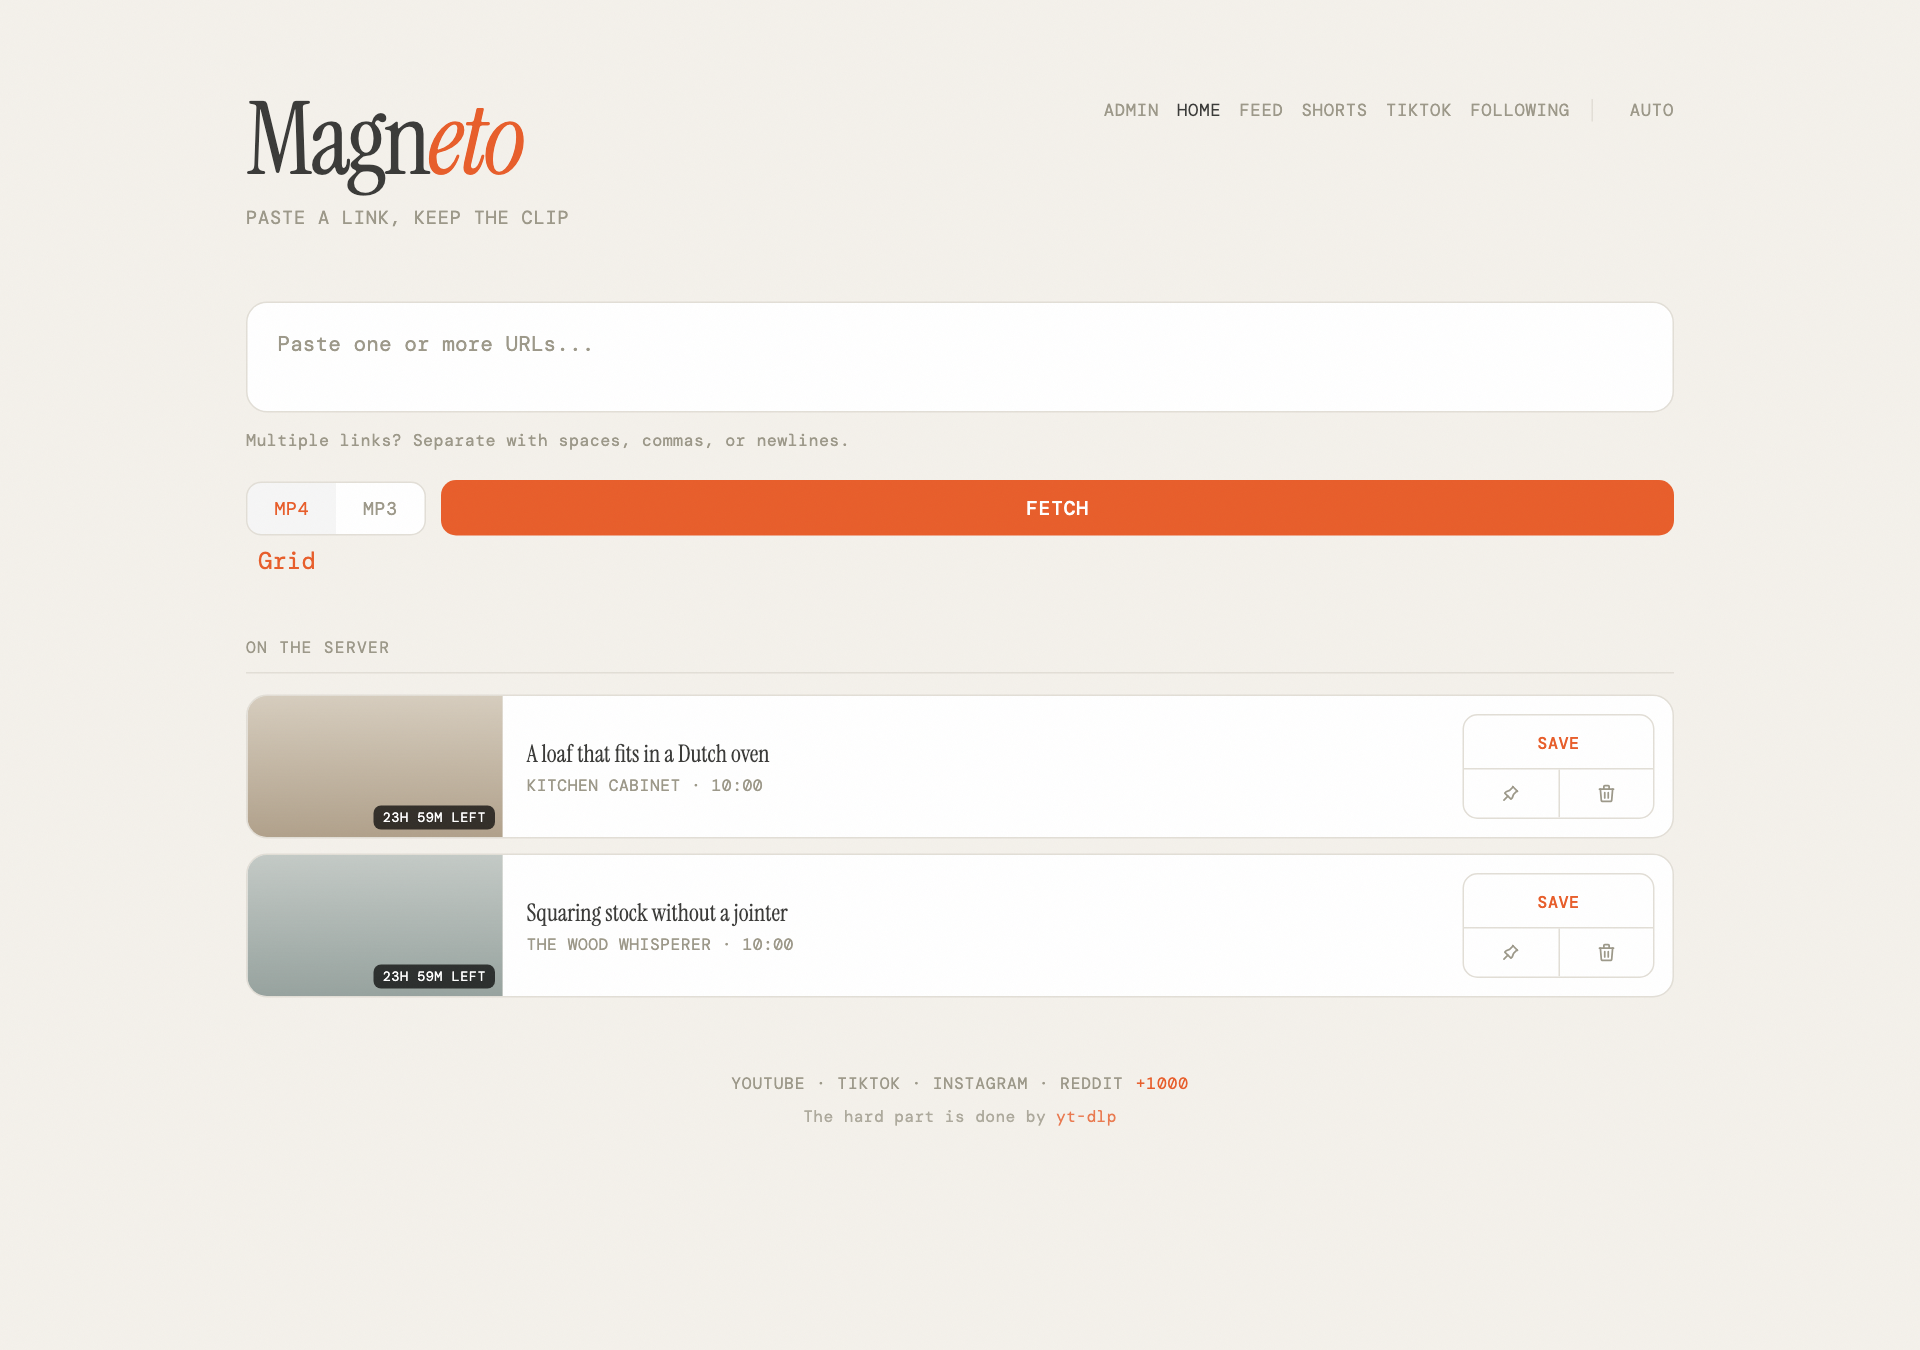
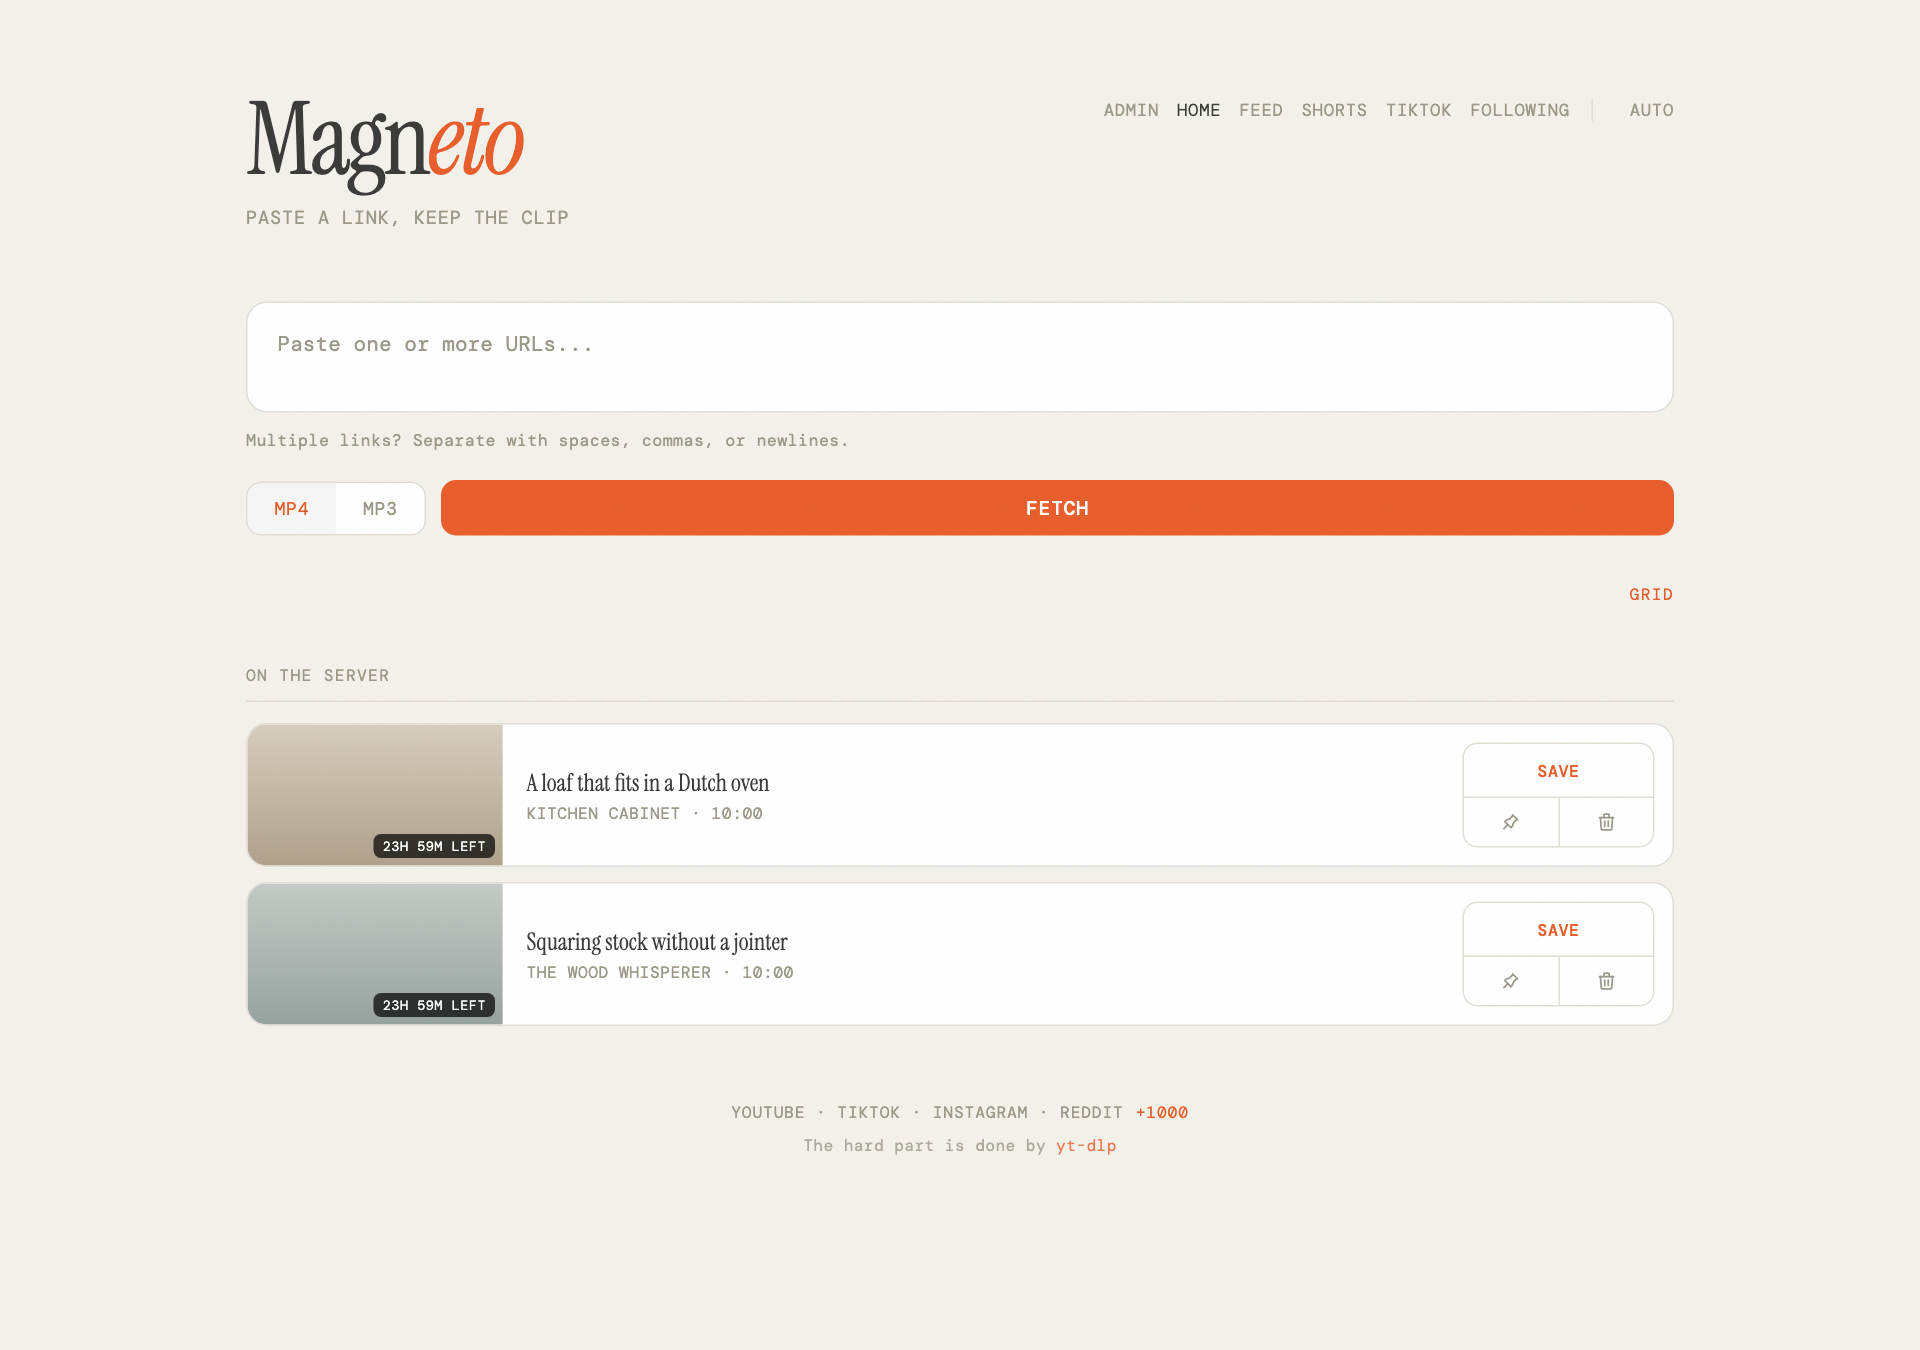
fix(css): the bar above a list belongs to the base sheet

diff --git a/static/base.css b/static/base.css
@@ -499,7 +499,6 @@ body.full { background: var(--video-bg); }
 body.full .page { max-width: none; padding: 0; }
 
 body.full .brand,
-body.full .feed-head,
 body.full .hint { display: none; }
 
 /* Stacked, and the image now touches top, left and right instead of left, top
@@ -588,4 +587,7 @@ body.full .hint { display: none; }
 /* Two folded panels, one shell: the settings, and the ways to add a channel.
    Both are built from the same pills and fields as the rest of the app rather
    than from a second kind of control. */
+/* A line above a list: what it holds on the left, what can be done to it on the
+   right. The home page, the feed and Following all wear it. */
+.feed-head { display: flex; justify-content: space-between; align-items: center; margin: 32px 0 12px; font-size: 0.68rem; color: var(--muted); letter-spacing: 0.08em; text-transform: uppercase; }
 .feed-head-actions { display: flex; flex-wrap: wrap; gap: 14px; }

diff --git a/static/follow.css b/static/follow.css
@@ -21,8 +21,6 @@
 
 .feed-add .fetch-btn { flex: 0 0 auto; }
 
-.feed-head { display: flex; justify-content: space-between; align-items: center; margin: 32px 0 12px; font-size: 0.68rem; color: var(--muted); letter-spacing: 0.08em; text-transform: uppercase; }
-
 .subscriptions { margin-top: 40px; }
 
 .channel-list { display: grid; grid-template-columns: repeat(2, minmax(0, 1fr)); gap: 0 20px; }
